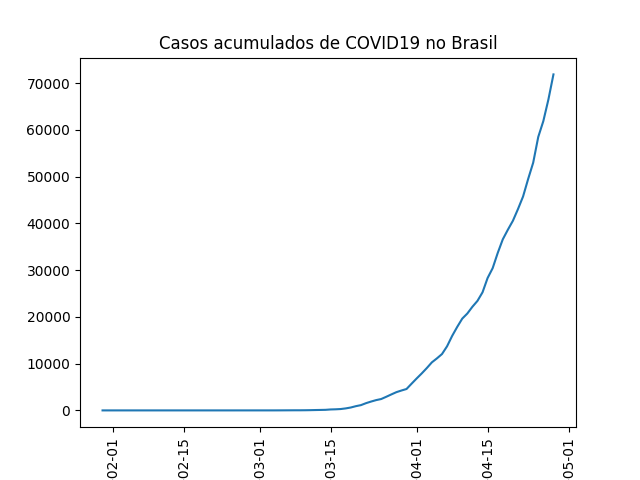
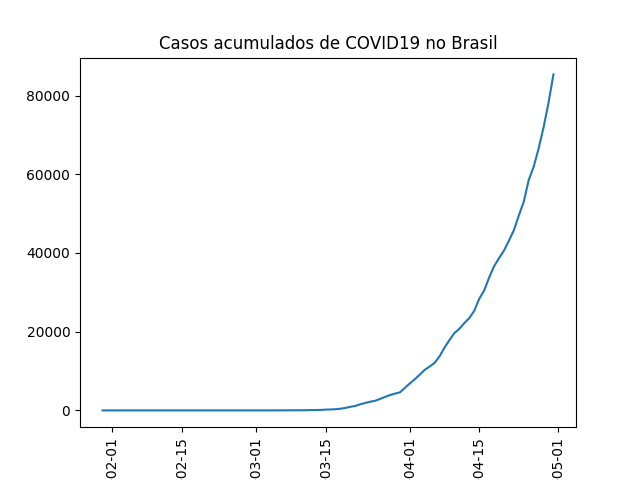
update 30-04-2020

diff --git a/analysis_covid19_pernambuco.py b/analysis_covid19_pernambuco.py
@@ -3,36 +3,82 @@ import matplotlib.pyplot as plt
 import numpy as np
 from util import *
 
+df_br = pd.read_csv('data/covid19-' + 'brasil' + '.csv')
+df_br['date'] = pd.to_datetime(df_br['date'], yearfirst=True, format='%Y-%m-%d')
+df_paulista = pd.read_csv('data/covid19-paulista.csv')
+df_paulista['date'] = pd.to_datetime(df_paulista['date'], yearfirst=True, format='%Y-%m-%d')
+df_recife = pd.read_csv('data/covid19-recife.csv')
+df_recife['date'] = pd.to_datetime(df_recife['date'], yearfirst=True, format='%Y-%m-%d')
+df_pe = pd.read_csv('data/covid19-pernambuco.csv')
+df_pe['date'] = pd.to_datetime(df_pe['date'], yearfirst=True, format='%Y-%m-%d')
+
+compare_places(df_br[df_br['state'] == 'SP'],
+                df_br[df_br['state'] == 'PE'],
+                'confirmed_per_100k_inhabitants',
+                'Confirmados por 100 mil habitantes',
+                'SÃO PAULO',
+                'PERNAMBUCO')
+
+compare_places(df_br[df_br['state'] == 'SP'],
+                df_br[df_br['state'] == 'PE'],
+                'death_rate',
+                'Taxa de mortalidade',
+                'SÃO PAULO',
+                'PERNAMBUCO')
+
+compare_places(df_br[df_br['state'] == 'CE'],
+                df_br[df_br['state'] == 'PE'],
+                'confirmed_per_100k_inhabitants',
+                'Confirmados por 100 mil habitantes',
+                'CEARÁ',
+                'PERNAMBUCO')
+
+compare_places(df_br[df_br['state'] == 'CE'],
+                df_br[df_br['state'] == 'PE'],
+                'death_rate',
+                'Taxa de mortalidade',
+                'CEARÁ',
+                'PERNAMBUCO')
+
+compare_places(df_recife,
+                df_paulista,
+                'confirmed_per_100k_inhabitants',
+                'Confirmados por 100 mil habitantes',
+                'RECIFE',
+                'PAULISTA')
+
+compare_places(df_recife,
+                df_paulista,
+                'death_rate',
+                'Taxa de mortalidade',
+                'RECIFE',
+                'PAULISTA')
+
+df_places = [df_pe, df_paulista, df_recife]
 places = ['pernambuco', 'paulista', 'recife']
-legend = []
 
-for place in places:
-    df_pe = pd.read_csv('data/covid19-' + place + '.csv')
-    df_pe['date'] = pd.to_datetime(df_pe['date'], yearfirst=True, format='%Y-%m-%d')
-
+for i,df_place in enumerate(df_places):
     plt.figure(figsize=(16,9))
-    my_bar(df_pe, 'confirmed')
-    plt.legend(['Novos casos confirmados em ' + str.upper(place)])
+    my_bar(df_place, 'confirmed')
+    plt.legend(['Novos casos confirmados em ' + str.upper(places[i])])
     plt.title('Novos casos diários de COVID19')
-    plt.savefig('figs/novos_casos_' + place + '.png')
+    plt.savefig('figs/novos_casos_' + places[i] + '.png')
 
     plt.figure(figsize=(16,9))
-    my_plot(df_pe, 'confirmed')
-    my_plot(df_pe, 'deaths', fmt='-+')
-    plt.legend(['Confirmados em ' + str.upper(place), 'Mortes em ' + str.upper(place)])
+    my_plot(df_place, 'confirmed')
+    my_plot(df_place, 'deaths', fmt='-+')
+    plt.legend(['Confirmados em ' + str.upper(places[i]), 'Mortes em ' + str.upper(places[i])])
     plt.title('Casos de COVID19')
-    plt.savefig('figs/casos_' + str(place) + '.png')
+    plt.savefig('figs/casos_' + str(places[i]) + '.png')
 
     plt.figure(figsize=(16,9))
-    my_plot(df_pe, 'confirmed_per_100k_inhabitants')
-    plt.legend(['Confirmados por 100 mil habitantes em ' + str.upper(place)])
+    my_plot(df_place, 'confirmed_per_100k_inhabitants')
+    plt.legend(['Confirmados por 100 mil habitantes em ' + str.upper(places[i])])
     plt.title('Casos por 100 mil de COVID19')
-    plt.savefig('figs/casos_100k_' + str(place) + '.png')
+    plt.savefig('figs/casos_100k_' + str(places[i]) + '.png')
     
     plt.figure(figsize=(16,9))
-    my_plot(df_pe, 'death_rate', '-+')
-    plt.legend(['Taxa de mortalidade em ' + str.upper(place)])
+    my_plot(df_place, 'death_rate', '-+')
+    plt.legend(['Taxa de mortalidade em ' + str.upper(places[i])])
     plt.title('Mortalidade da COVID19')
-    plt.savefig('figs/mortalidade_' + str(place) + '.png')
-
-plt.show()
+    plt.savefig('figs/mortalidade_' + str(places[i]) + '.png')

diff --git a/analysis_covid19_brasil.py b/analysis_covid19_brasil.py
@@ -35,9 +35,10 @@ plt.title('Novos casos de COVID19 no Brasil')
 plt.savefig('figs/novos_casos_brasil.png')
 
 plt.figure()
-plt.plot_date(df_br['date'].unique(), np.array(casosAcumulados), xdate=True, fmt='-')
+plt.plot_date(df_br['date'].unique(), np.array(casosAcumulados), xdate=True, fmt='-o')
 plt.tick_params(axis='x', labelrotation=90, left=True)
 plt.title('Casos acumulados de COVID19 no Brasil')
+plt.xticks(ticks=df_br['date'])
 plt.savefig('figs/casos_brasil.png')
 
 plt.figure()
@@ -46,9 +47,8 @@ plt.title('Novos obitos de COVID19 no Brasil')
 plt.savefig('figs/novos_obitos_brasil.png')
 
 plt.figure()
-plt.plot_date(df_br['date'].unique(), np.array(obitosAcumulados), xdate=True, fmt='-')
+plt.plot_date(df_br['date'].unique(), np.array(obitosAcumulados), xdate=True, fmt='-o')
 plt.tick_params(axis='x', labelrotation=90, left=True)
 plt.title('Obitos acumulados de COVID19 no Brasil')
+plt.xticks(ticks=df_br['date'])
 plt.savefig('figs/obitos_brasil.png')
-
-plt.show()

diff --git a/util.py b/util.py
@@ -15,7 +15,6 @@ def my_plot(df, column, fmt='-o', print_label=True):
     for i,d in zip(df.iloc[:1]['date'], df.iloc[:1][column]):
         plt.text(i, d, str(d))
     plt.tick_params(axis='x', labelrotation=90, left=True)
-    # plt.xticks(ticks=df['date'])
 
 def my_bar(df, column):
     new_daily = df.iloc[:-1][column].array-df.iloc[1:][column].array
@@ -23,3 +22,12 @@ def my_bar(df, column):
     plt.bar(df.iloc[-1]['date'], df.iloc[-1][column], color='b')
     plt.tick_params(axis='x', labelrotation=90, left=True)
     plt.xticks(ticks=df['date'])
+
+def compare_places(df1, df2, column, title, place1, place2):
+    plt.figure(figsize=(16,9))
+    my_plot(df1, column)
+    my_plot(df2, column)
+    plt.title(title)
+    plt.legend([place1, place2])
+    plt.savefig('figs/' + title.replace(' ', '_') + '_' + place1 + 'x' + place2 + '.png')
+    plt.close()
